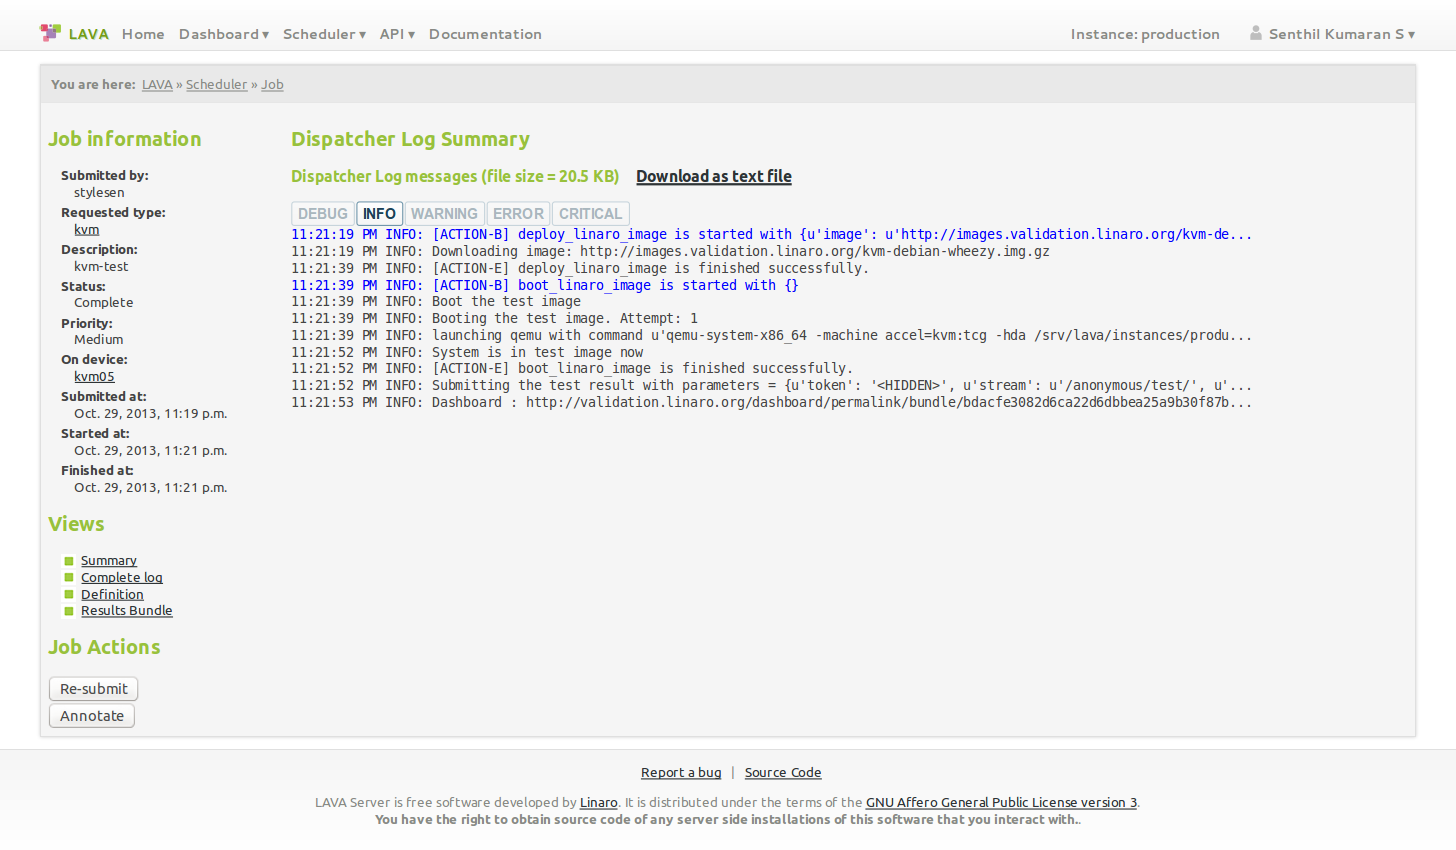
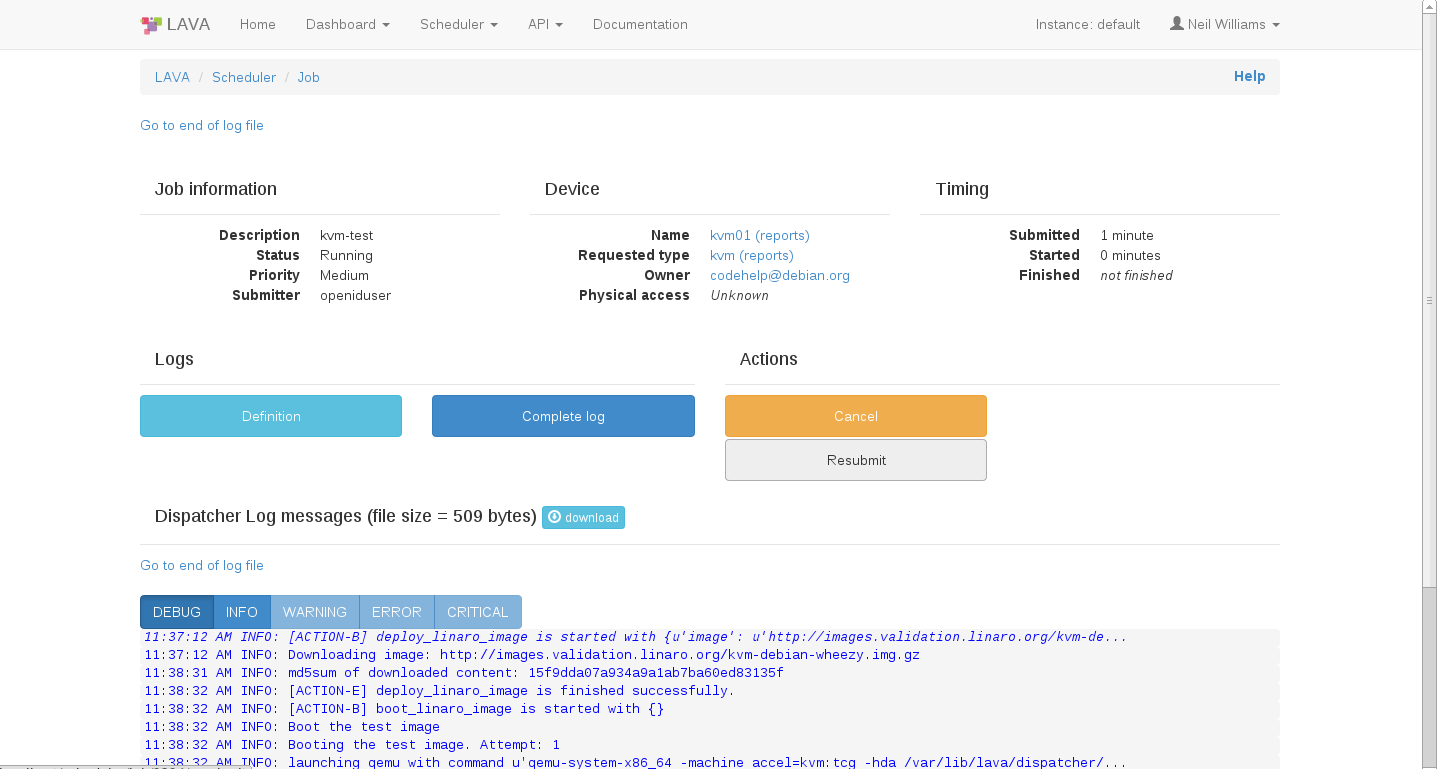
Update overview images for bootstrap.css
Also migrate to Google for OpenID temporarily.

diff --git a/doc/overview.rst b/doc/overview.rst
@@ -57,28 +57,20 @@ password enter your credentials in the provided text boxes and click
 
 .. image:: ./images/local-user-login.png
 
-LP User Account
----------------
+OpenID User Account
+-------------------
 
-Alternatively launchpad login could be used via OpenID in order to
-login to LAVA. You must be part of linaro-lava-access group in
-launchpad in order to perform various operations within LAVA. In order
-to login with launchpad click on "Sign in with Launchpad.net" button,
-which will take you to the following screen in order to
-authenticate. Enter your launchpad credentials in the provided text
-boxes and click "Login"
+Alternatively Google login could be used via OpenID in order to
+login to LAVA. In order to login with Google click on "Sign in with OpenID"
+button, which will take you a Google login screen in order to confirm
+that you want to allow LAVA to use your Google profile to authenticate.
 
-.. image:: ./images/launchpad-login-credentials.png
-    :width: 640
-    :height: 480
+A successful authentication will redirect you to http://validation.linaro.org/
 
-Once "Login" button is clicked, page redirects to "Personal Data
-Request" as follows. Click on "Yes, log me in" button which will
-authenticate the user and redirects to http://validation.linaro.org/
-
-.. image:: ./images/launchpad-personal-data-request.png
-    :width: 640
-    :height: 480
+.. note:: Launchpad has been disabled as an OpenID server due to problems with
+          the reliance upon CACert which has been disabled in recent releases of
+          ca-certificates. Google is also migrating away from OpenID, at which
+          time LAVA will drop OpenID support.
 
 .. index:: token
 
@@ -99,30 +91,28 @@ Once the user is logged in to http://validation.linaro.org/ click on
     :width: 640
     :height: 480
 
-Click on "Create new token" link on the above page which takes to the
-following page. Fill in the "Description" text box to associate tokens
-with their intended purpose (this helps you identify and delete tokens
-\- if required at a later stage).
+Click on "new" button on the above page which raises a dialog box
+asking for a "Description" of the token to help you identify and
+delete tokens \- if required at a later stage.
 
 .. image:: ./images/create-new-authentication-token.png
 
-Once the description is entered, click on "Save" button to generate
-the token. The token will be assigned a token number (which is
-autogenerated by LAVA).
+Click on the "Create" button to generate the token. The token
+will be assigned a token number (which is autogenerated by LAVA).
 
 .. image:: ./images/sample-token-page.png
     :width: 640
     :height: 480
 
-To display the token that was generated above click on the "display
-this token" link on the above page.
+To display the token that was generated above click on the green "display
+this token" button in the Actions column on the above page.
 
 .. image:: ./images/token-display-page.png
     :width: 640
     :height: 480
 
-If a token is compromised it can be removed by clicking on "delete
-this token" link. Anyone using that token will no longer be able to
+If a token is compromised it can be removed by clicking on the red "delete
+this token" button in the Actions column. Anyone using that token will no longer be able to
 authenticate as You in the system.
 
 .. index:: lava-tool
